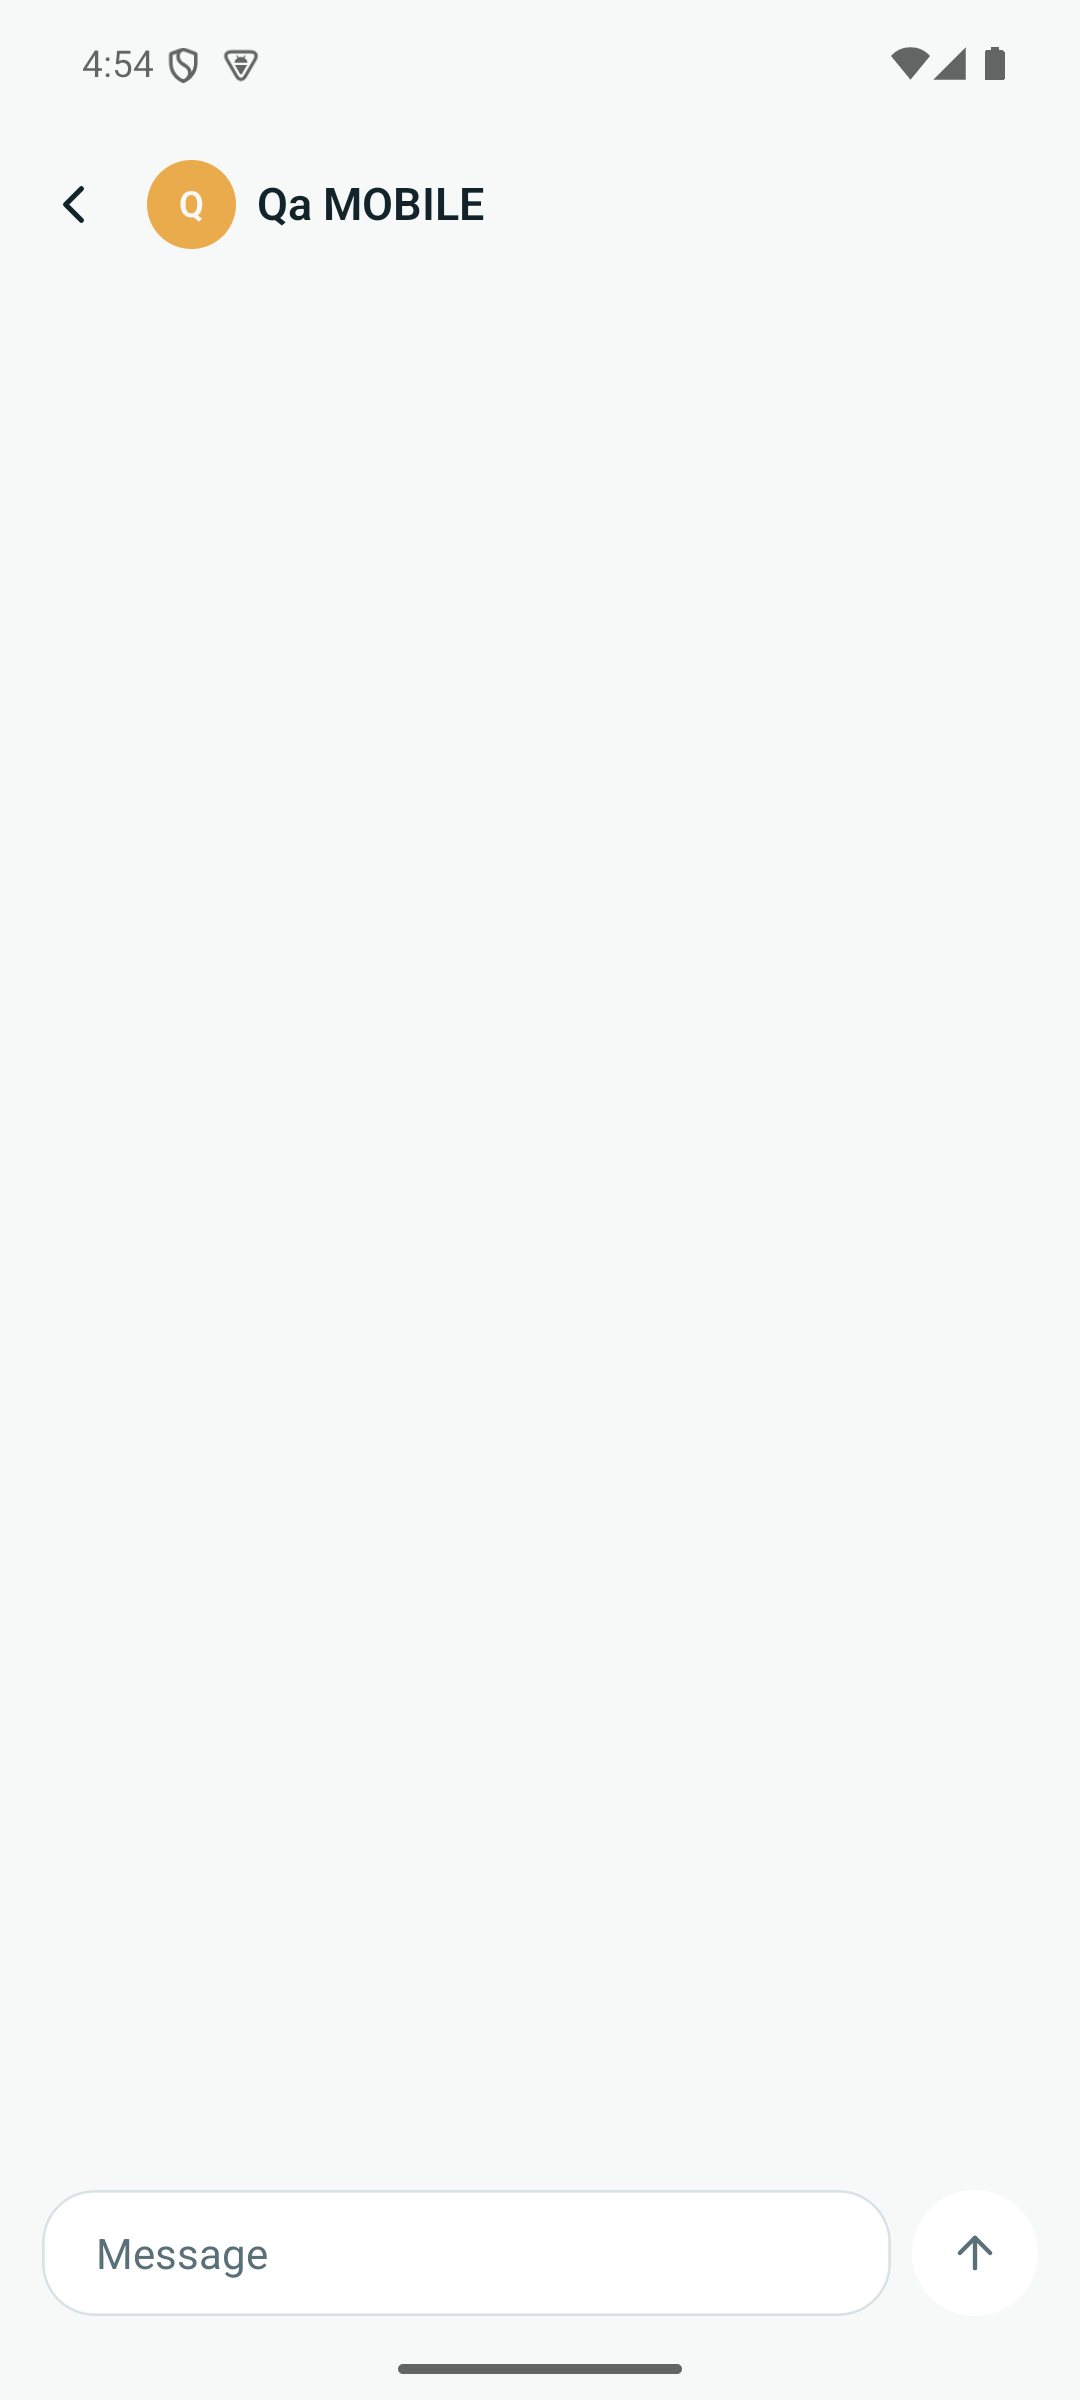
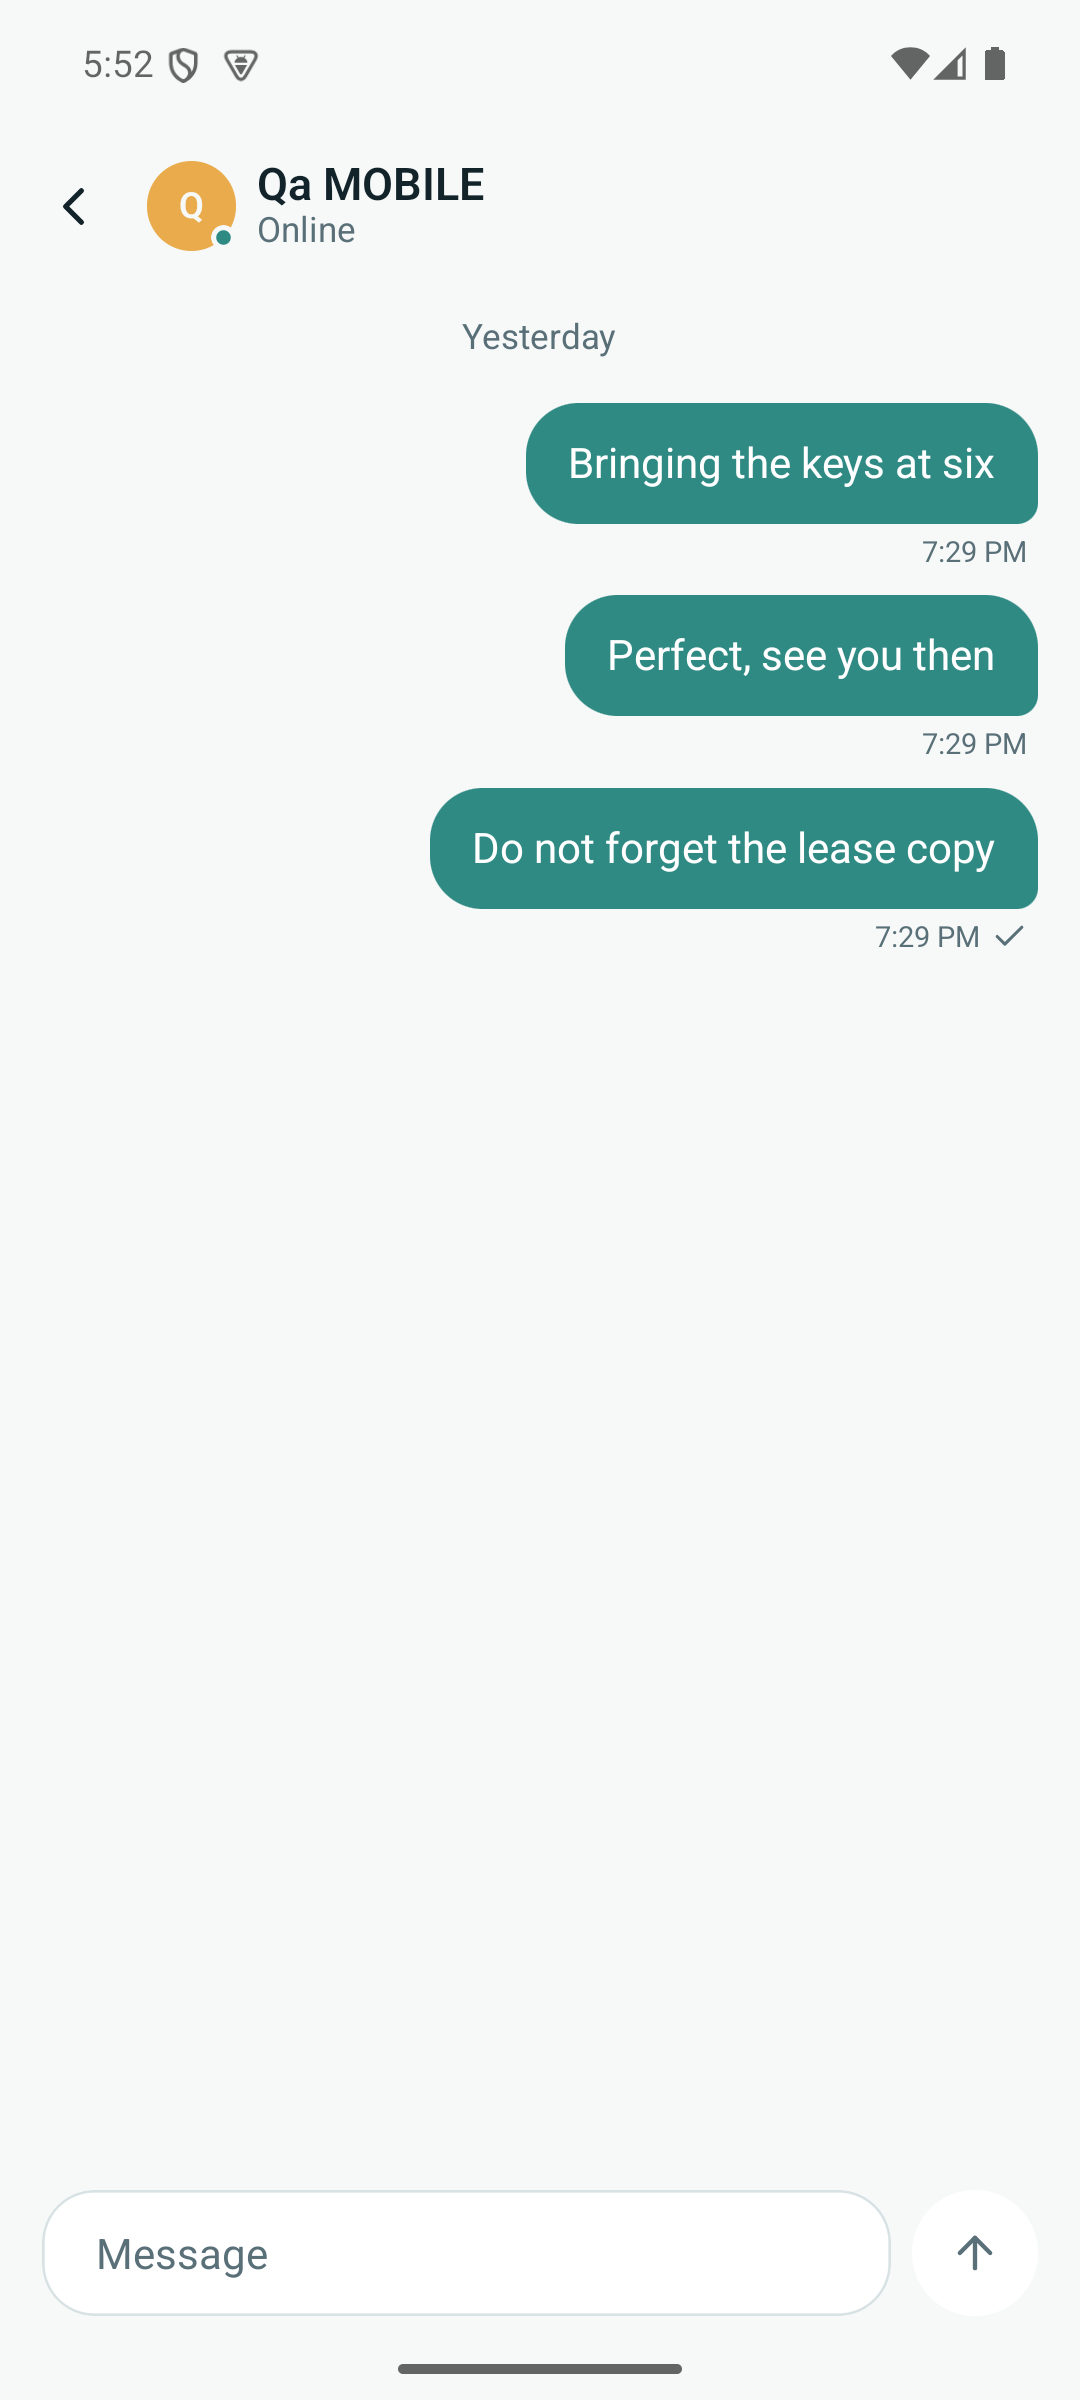
test(qa): 09 passes its FIRST EVER run, and 06 finds a second defect behind the first
09-keyboard had never been executed. Its row said UNRUN, so when 28cf795
fixed a composer that really did go under the keyboard, there was no green
here to have been vacuous - there was nothing at all. It passes now, on the
HARD case: 50-keyboard-up.png shows a DOCKED full-width Gboard with the
field, send and attach all above it.

That screenshot also corrects this flow own header, which claimed Gboard on
this AVD was FLOATING and therefore "the easy case". It is not, and that
claim was load-bearing - it was the reason to doubt the flow rather than the
screen.

06-people-chat re-run confirms the keyboard fix on device: the composer sits
above the keyboard and the message sends. It now fails one step later, and
the frame shows why - a long press on a message raises ANDROID TEXT
SELECTION (Copy / Share / Select all) instead of the app reaction sheet. The
gesture lands on the right bubble; the system takes it first. The reaction
sheet is unreachable by long press on this build.

diff --git a/qa/FLOW_REGISTER.md b/qa/FLOW_REGISTER.md
@@ -16,10 +16,10 @@ not 1 — a blocked preflight has found nothing, not a bug.
 | `03-dictation.yaml` | **REWRITTEN 2026-09-19.** The composer works with or without a recogniser (every binary); then it branches on `APP_ID` — Expo Go: the mic is **absent**; dev build: the mic is **present**, tapping it answers with either `composer-listening` (cancel asserted, and it cancels) or `composer-mic-refused` (the line, and **the button stays**), each branch hard | **Which branch ran is in the `.log`, not in the exit code.** If a future Maestro stops exposing `-e` params to the JS sandbox both branches are skipped and only the composer assertions will have run — a NOT MEASURED, and the header says to read the log. Not the permission dialog itself: Android asks once per install, so the tap is optional and only the OUTCOME is asserted. It used to assert absence unconditionally, which became false the day the rig started driving the dev build |
 | `04-delete-conversation.yaml` | **REWRITTEN 2026-09-19.** The row menu's order (Clear first) and the clear hint; a rename, so every later step addresses the conversation this flow made; the delete confirm's **wording**, both halves, including the guarantee naming notes, contacts, loans and money; **Keep it**, and the row still there afterwards; then that same conversation **deleted for real**, and the app landing in the fallback the server hands back. Rows are reached by their menu's "Options for …" label, never by a record id | **Only what it created.** It used to press Keep it and stop, so every run left one more conversation behind: at 50 (`MAX_PER_USER`) "New conversation" is disabled and this flow, `15` and anything else that starts one would fail on a full fixture rather than on a bug. Stops as NOT MEASURED if the account is already at the cap. Not Clear, Rename's validation, Search in or How to answer. Not the with-files wording — a new conversation has none; `deleteQuestion()`'s three forms are unit-tested |
 | `05-upload.yaml` | The attach sheet: the three ways a person has a file, and that it says which types it takes | **Not an upload.** The system file picker is outside the app; driving it is a separate and flaky problem. The nine-extension rule is covered by unit test |
-| `06-people-chat.yaml` | **FAIL — 2026-09-19 17:00, dev build `co.byseven.multimagic`, tree at `5e37367` + e7's uncommitted i18n.** Reached by `chat-open-chats`; `chats-list`, a thread opened by row, `thread-list` and `thread-title` present, the composer present and typed into. It fails at `people-composer-send`, and the failure is the screen's, not the flow's: **with the keyboard up the composer is off screen.** Frames side by side in `qa/evidence/06-people-chat/` — `07-thread-open.png` has the field and the send arrow at the bottom with the keyboard down; `not-met/step-024-*.png` has the same thread with the keyboard up, three messages, and no composer at all. A person typing here cannot see the words or reach send. `09-keyboard` asserts exactly this for the assistant's composer; the people thread has no such cover. **Reported to the owner, not fixed here.** | **Not the other side.** Whether a message from another person renders LEFT — the half of the `sent_by_me` trap that matters most — needs a second signed-in account and the rig has none. **Not the double tick**, **not the unread divider**, same reason. Nothing about groups. And nothing past the send: the reaction chip and the long-press sheet were never reached, so they are UNRUN rather than passed. One more thing seen and not asserted: at `07-thread-open` the thread renders EMPTY and fills in a moment later, so `thread-list` can pass against a list with nothing in it |
+| `06-people-chat.yaml` | **FAIL — re-run 2026-09-19 17:51 on `5e37367`+`28cf795`. The first defect is FIXED and a second one was behind it.** The keyboard fix is **verified on device**: `08-thread-sent-right-side.png` shows the composer sitting above a DOCKED full-width Gboard, and the message *"[qa] automated test message"* sent at 5:52 PM with its tick, on the right. That is everything the earlier run could not reach. It now fails one step later, at `reaction-sheet` after `longPressOn: msg-mine-.*` — and the frame (`not-met/step-028-*.png`) shows **Android's own text-selection menu open instead**: Copy · Share · Select all, with selection handles on the bubble. The long press landed on the right message; the system's text selection took the gesture and the app's `onLongPress` never ran. So **the reaction gesture is unreachable on this build**, and a person long-pressing to react gets Copy/Share/Select all. Reported; not fixed here | **Not the other side** — a message from another person rendering LEFT needs a second signed-in account and the rig has none. **Not the double tick**, **not the unread divider**, same reason. Nothing about groups. Everything past the long press — the thumbs-up chip, the same emoji toggling it back off — is UNRUN, not passed. Still true from the first run and still unasserted: `thread-list` can pass against a thread that renders EMPTY and fills a moment later, so the arrival assertion is weaker than its name |
 | `07-notifications.yaml` | **PASS — 2026-09-19 17:05, dev build, tree `5e37367` + e7's uncommitted i18n. A THIN PASS, and the thinness is the point.** Reached by `chat-open-notifications`; `notifications-list` present; the QA account has no notifications, so it took the **empty branch** and asserted *"You're all caught up."* and nothing else. That is a real pass of reachability and the empty state, and it is all it is | **The whole substantive half was SKIPPED, not passed.** Everything behind `notifications-empty` being absent never ran: the date heading, tapping a `notification-row-*` through to a composed question, the *"What is this about:"* prefill, the row marked read on return, **Mark all as read**, and the **Clear read notifications** confirm with its *"Anything still unread stays where it is."* wording. Six of the flow's eight screenshots were never taken. To measure any of it the QA account needs a notification, and nothing in the rig makes one — a flow cannot create one without a second account or a server-side write, and `RIG_CONTRACT.md` §3 rules the second out. Recorded as UNRUN inside a PASS rather than left to look covered |
 | `08-calendar.yaml` | **PASS — 2026-09-19 17:10, dev build, tree `5e37367` + e7's uncommitted i18n. Thin, like 07, and for the same reason.** Reached by `chat-open-calendar`; `calendar-list` present, the *"What's next"* heading, and `calendar-day-today` — the ternary testID that is a fixed handle for today and a date-keyed one for every other day, so today is addressable without a record id. The QA account has no events today, so it took the **`calendar-nothing-today`** branch and asserted *"Nothing today."* | **The branch with events in it never ran.** Everything behind `calendar-nothing-today` being absent is UNRUN, not passed. Same shape as 07: the QA account holds no calendar data and the rig will not create any — nothing in `qa/` writes to that backend, by `RIG_CONTRACT.md` §3, and the database behind it is his real one. A fixture account with a seeded week is what would measure this, and that is a decision about his data rather than a gap in the flow |
-| `09-keyboard.yaml` | **UNRUN.** With the keyboard raised, the field, the send button and the attach button are all on screen and hittable — the iOS mistake Android's resize hides; then the draft **survives the keyboard closing** (asserted on the field's own text, not just its presence), and the clear control appears with a draft and clears it | **Not iOS, which is the platform the assertion exists for** — an Android emulator cannot show whether `KeyboardAvoidingView` is doing the work or the window resize is. Not a FLOATING keyboard (Gboard's mode on this AVD), which produces no inset at all and is the easy case. The `hideKeyboard` here is a deliberate Back press with an IME provably up; see the flow's comment |
+| `09-keyboard.yaml` | **PASS — 2026-09-19 17:50, dev build, tree `5e37367`+`28cf795`. FIRST RUN EVER; this row said UNRUN until tonight.** With the keyboard raised the field, the send button and the attach button are all on screen and hittable; the draft then **survives the keyboard closing**, asserted on the field's own text rather than its presence; and the clear control appears with a draft and clears it. `50-keyboard-up.png` is the evidence and it also **corrects this flow's own header**: Gboard on this AVD is **DOCKED and full-width**, not floating. The header claimed floating — the easy case — which was the reason to doubt the flow instead of the screen | **Not iOS**, which is the platform the assertion exists for. And the honest history: because this flow had never run, it caught nothing when `app/chat.tsx`'s `Screen` container carried `behavior={undefined}` on Android and the assistant composer had the identical defect `06-people-chat` found on the people thread. There was no vacuous green here to explain — there was no green. A flow written and never executed proves exactly as much as no flow |
 | `signed-out.yaml` | Helper, like `login.yaml`: ends on the sign-in screen by signing OUT through the sessions sheet's own row — the way a user does — so the auth flows start where a stranger starts | Does not wipe storage. `clearState` would erase the device fingerprint every token is bound to, and under Expo Go it lands on Expo Go's error screen |
 | `10-sign-up.yaml` | **PASS** — run 7, dev build, 2026-09-19 (see *Run 7 — six verdicts*). Reachable from sign-in's "Create account"; validate-on-press with copy that names name, email and password; a TAKEN address — the QA account's own, the only one the rig may type — refused in the server's own words, "has already been taken", which is the JSON:API `errors[].detail` shape only this screen parses; nothing created and nobody signed in (still on sign-up, no composer); the way back to sign-in | **Does not create an account.** The 201 path — Devise signs the new user in and the app lands on the assistant — is unit-tested only; making users in his real database on every run is not a test. Not the 429: `rack_attack.rb` throttles `/users`, the route is `/users/signup`, so it never fires (backend finding). Walks past two app findings it records in its header: `detail` names no attribute, so the screen says "has already been taken" without saying what; and lastname is required by the server and not by the app |
 | `11-forgot-password.yaml` | **PASS** — run 7, dev build, 2026-09-19 (see *Run 7 — six verdicts*). Reachable from sign-in's "Forgot password"; validate-on-press with copy naming the email; the error clearing as you type; the QA address submitted with the keyboard's Go key (`returnKeyType="go"`); the server ACCEPTING — `forgot-password-sent` renders on a 2xx and on nothing else — and the copy that does not say whether the address was known; back to sign-in | **Not that mail arrived, and not the link.** The confirmation step is web-only in v1 by design. Not a non-existent address: the server answers 200 either way, so the screen has nothing to branch on, and the rig types no address but the QA account's. **Budget: 5 per 15 minutes per IP** (`rack_attack.rb`); a run past that fails on the sent state with `too_many_requests` on screen, which is the throttle and not the app. Every run puts a real reset token on the QA account and a real mail in its inbox |
